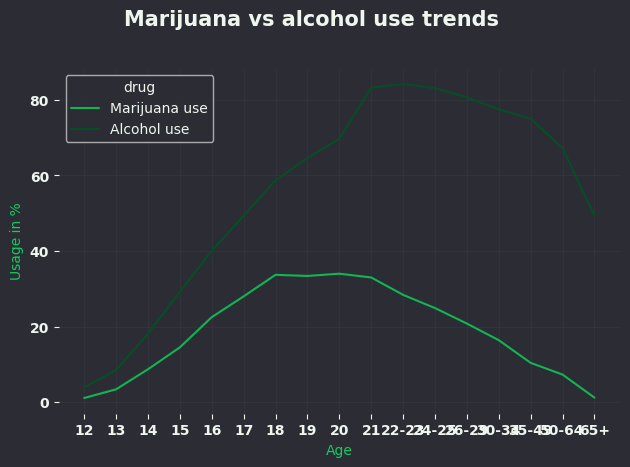
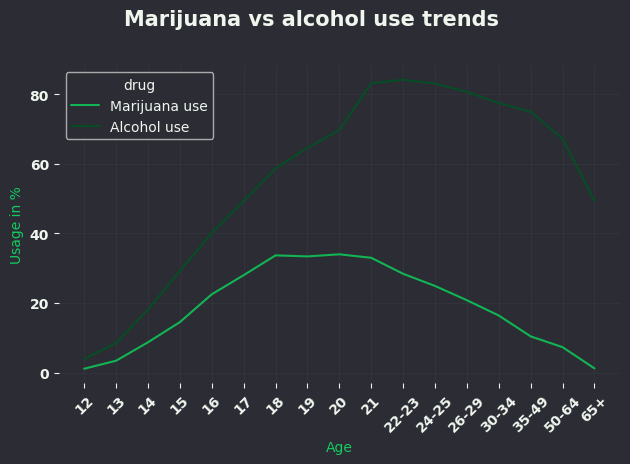
Changed unintelligible thicks in one of the graphs

diff --git a/projects/drug-use-by-age-analysis/src/plot.py b/projects/drug-use-by-age-analysis/src/plot.py
@@ -87,7 +87,7 @@ LineChart(data=marijuana_vs_alcohol,
           hue="drug",
           palette=[palette_short[2], palette_short[0]],
           title="Marijuana vs alcohol use trends",
-          xtick_rotation=0,
+          xtick_rotation=45,
           xlabel="Age",
           ylabel="Usage in %")
 
